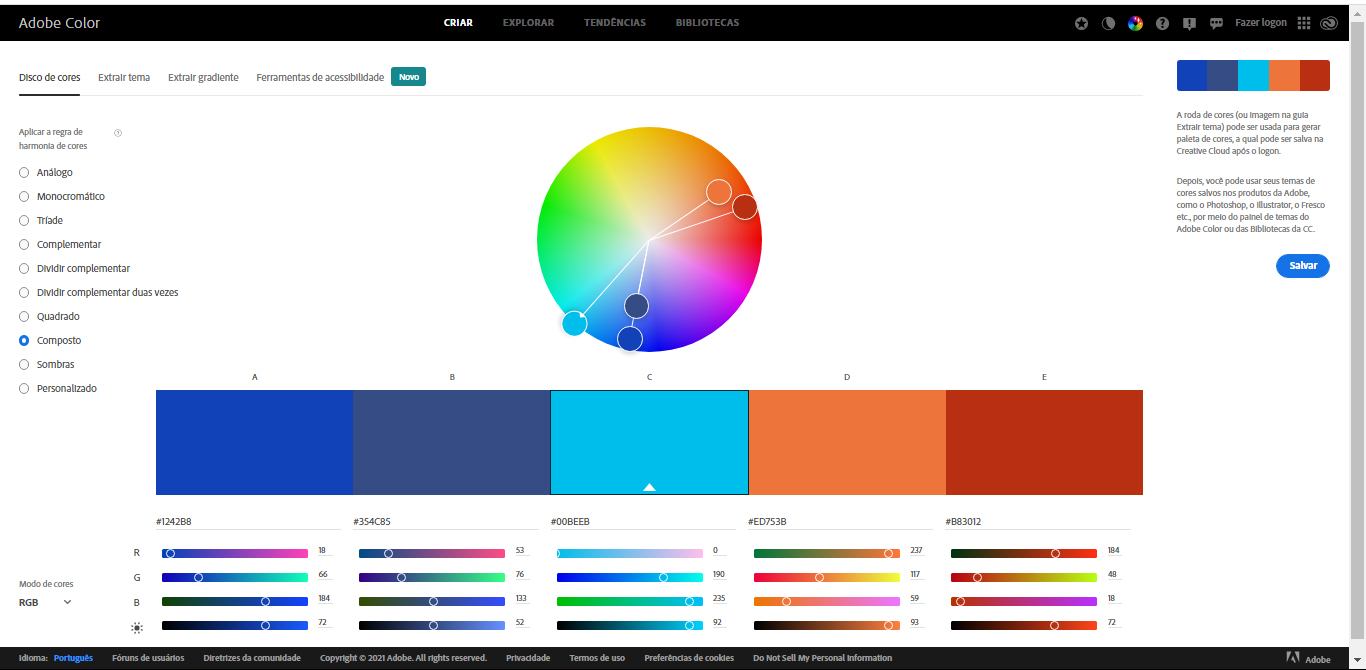
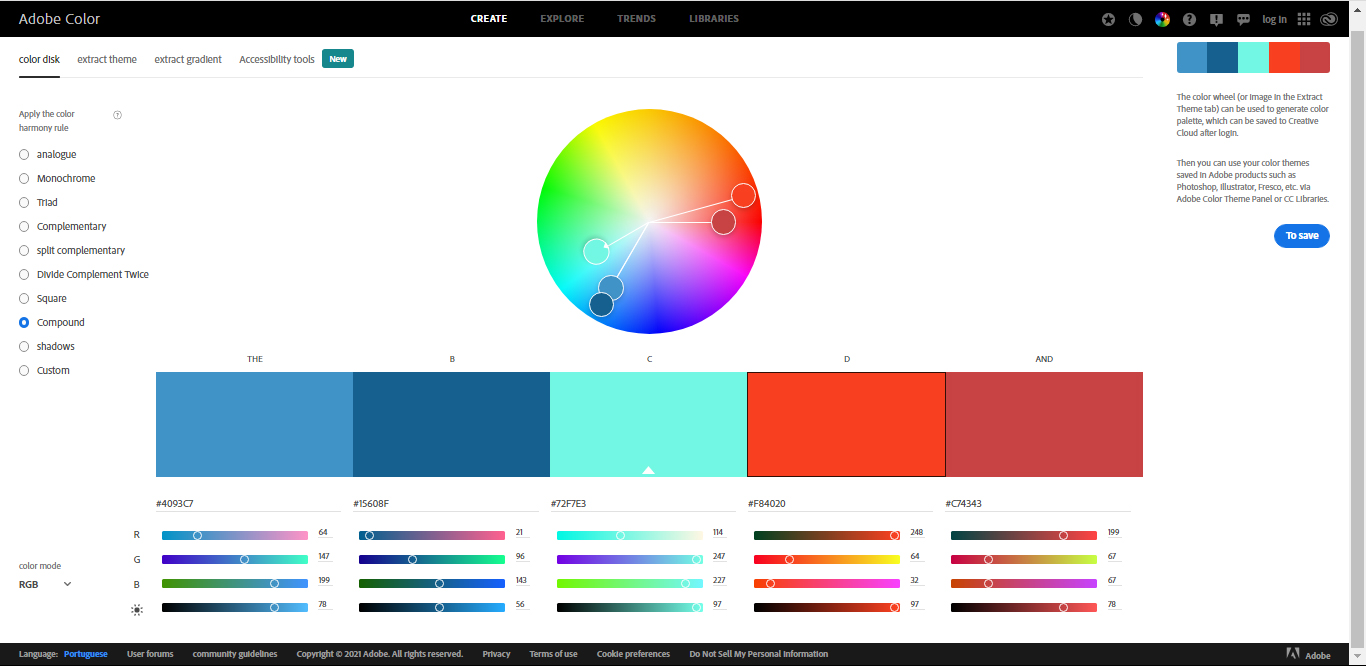
Updated color

diff --git a/m2-css-only/continuing.html b/m2-css-only/continuing.html
@@ -42,10 +42,22 @@
             </h2>
 
                 <p>
-                    To build your own color pallete you may first go to <a href="https://color.adobe.com/pt/create/color-wheel" target="blank" rel="noopener noreferrer">Adobe Colors.</a>
+                    To build your own color pallete you may first go to <a href="https://color.adobe.com/pt/create/color-wheel" target="blank" rel="noopener noreferrer">Adobe Colors.</a> The color wheel (or image in the Extract Theme tab) can be used to generate a color palette, which appear below the wheel.
                 </p>
 
-                <img src="assets/paleta.jpg" width="70%" alt="color pallete from adobe Colors">
+                <p>
+                    On the left side of the page you can choose among ten color harmony rules.
+                </p>
+
+                <p>
+                    At any time you can move the small balls in the color wheel to choose your own hue and saturation for each color rule.
+                </p>
+
+                <p>
+                    Under each color rectangle below the color wheel is its hexadecimal code, which an be copied and pasted directly on your css code.
+                </p>
+
+                <img src="assets/paleta.jpg" width="90%" alt="color pallete from adobe Colors">
 
             <h2>
                 1.2) Picking a color from screen
@@ -71,7 +83,6 @@
                 <p style="font-family: 'Courier New', Courier, monospace;">
                     Lorem ipsum dolor, sit amet consectetur adipisicing elit. Deleniti cumque amet perspiciatis eos dolorem molestiae cupiditate sapiente deserunt, autem voluptas voluptatibus consequatur magni et error illum qui adipisci, obcaecati ad. 
                 </p>
-
 
 
 
